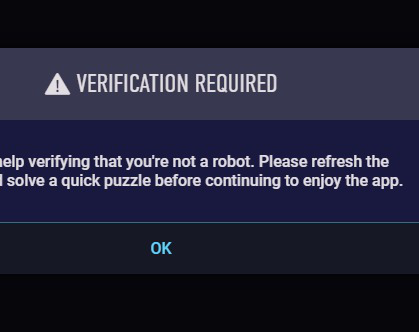
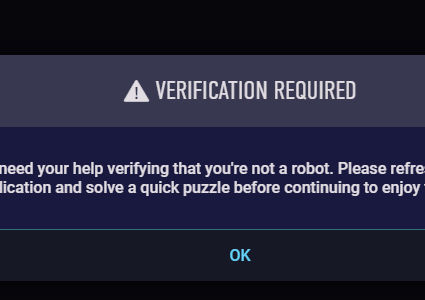
Captcha monitoring fix

diff --git a/AutoBuyer/AutoBuyer.Core/Controllers/ScreenController.cs b/AutoBuyer/AutoBuyer.Core/Controllers/ScreenController.cs
@@ -306,7 +306,7 @@ namespace AutoBuyer.Core.Controllers
 
             messageCapture.Dispose();
 
-            if (captcha > 85)
+            if (captcha > 95)
             {
                 return InterruptScreen.Captcha;
             }
